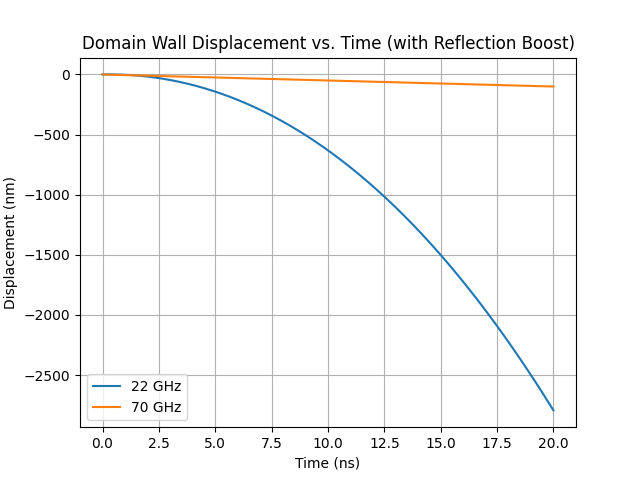
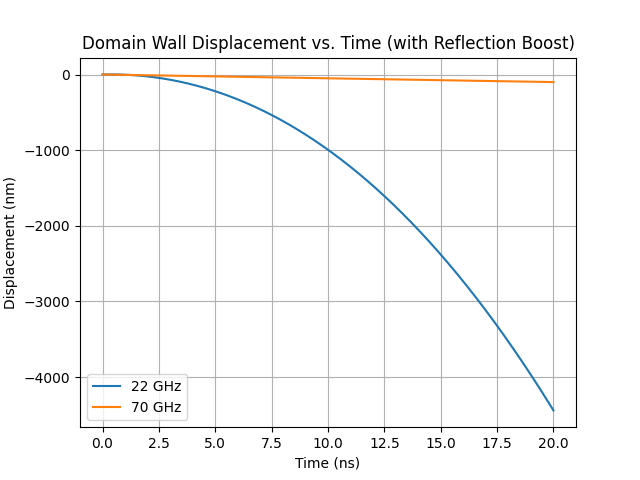
img new

diff --git a/dis1b.py b/dis1b.py
@@ -3,7 +3,7 @@ import matplotlib.pyplot as plt
 from scipy.integrate import solve_ivp
 
 alpha = 0.01
-beta  = 250.0   # Reflection boost factor (tune as needed)
+beta  = 400.0   # Reflection boost factor (tune as needed)
 u_const = 5.0
 A_const = 1e7
 
